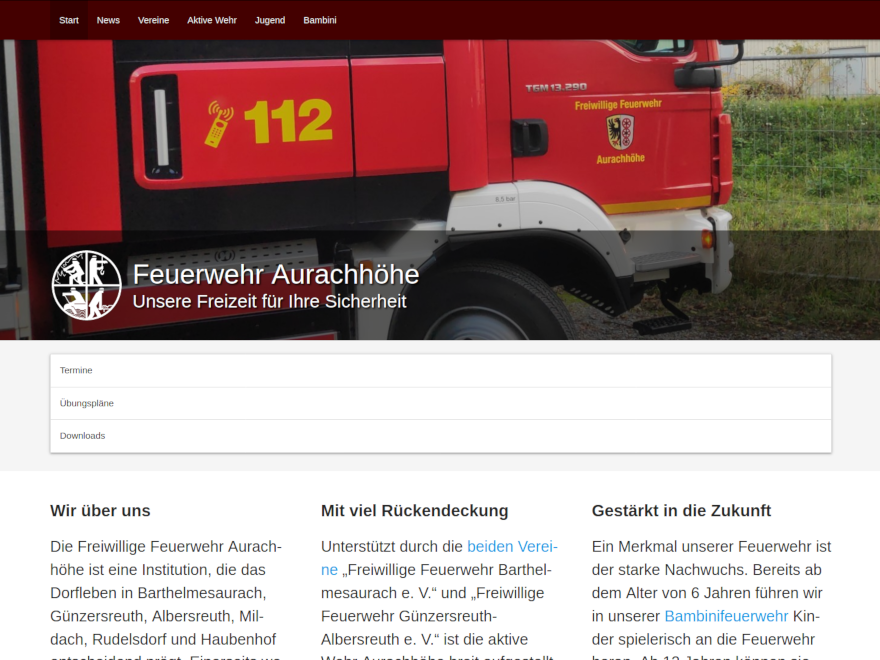
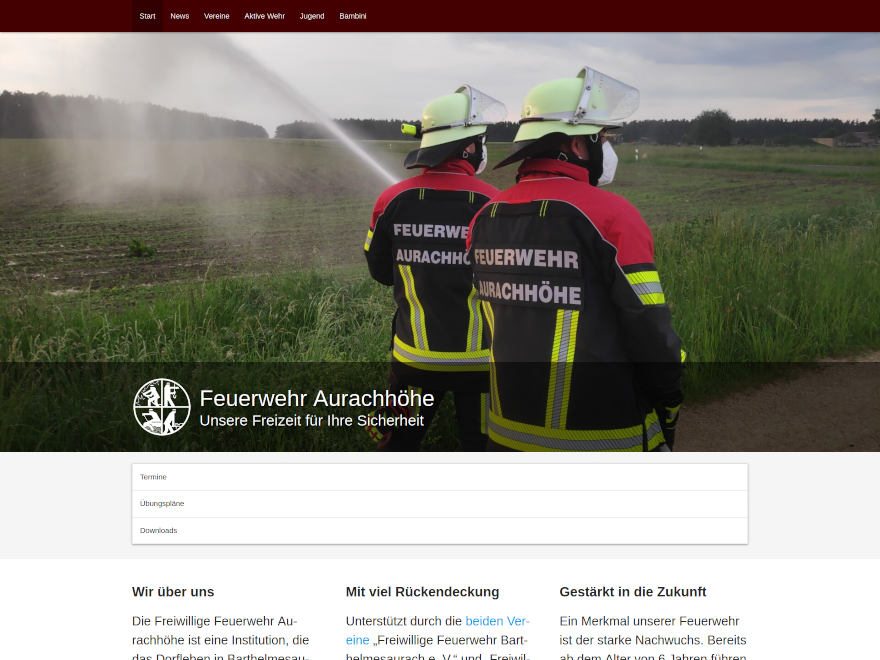
Update screenshot and add README.md

diff --git a/README.md b/README.md
@@ -1,0 +1,5 @@
+# Phoenix
+
+Wordpress theme based on MaterializeCSS framework. Please note that this theme makes a few assumptions so that it is unlikely that it work out of the box on a plain Wordpress instance. Developed for volunteer firefighters.
+
+![screenshot](screenshot.png)
